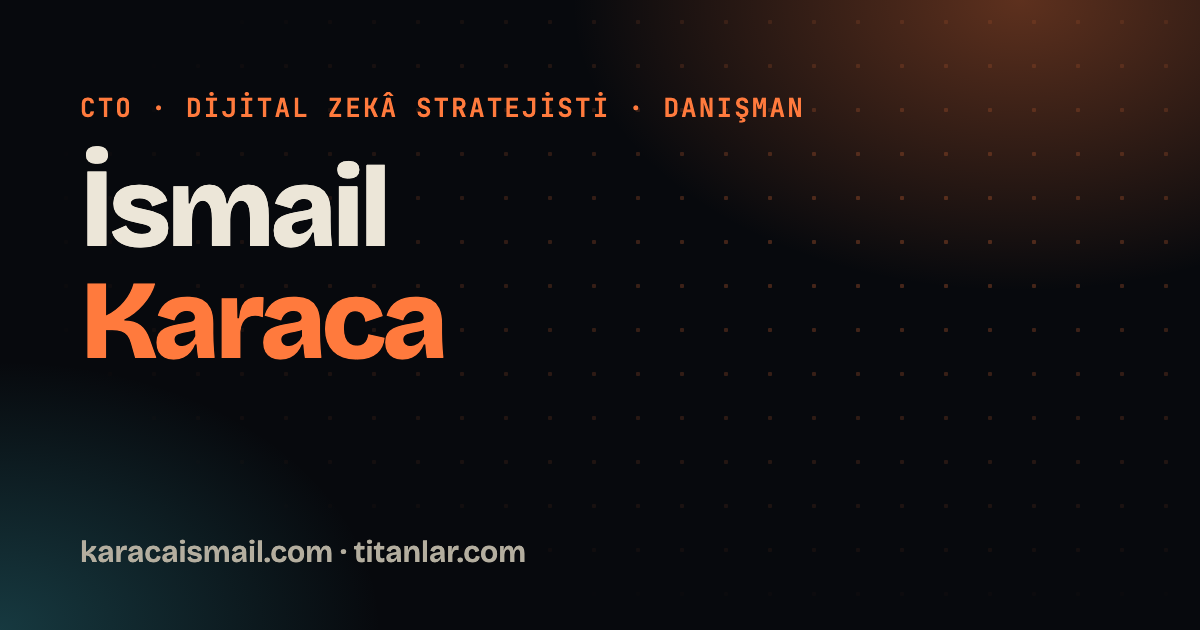
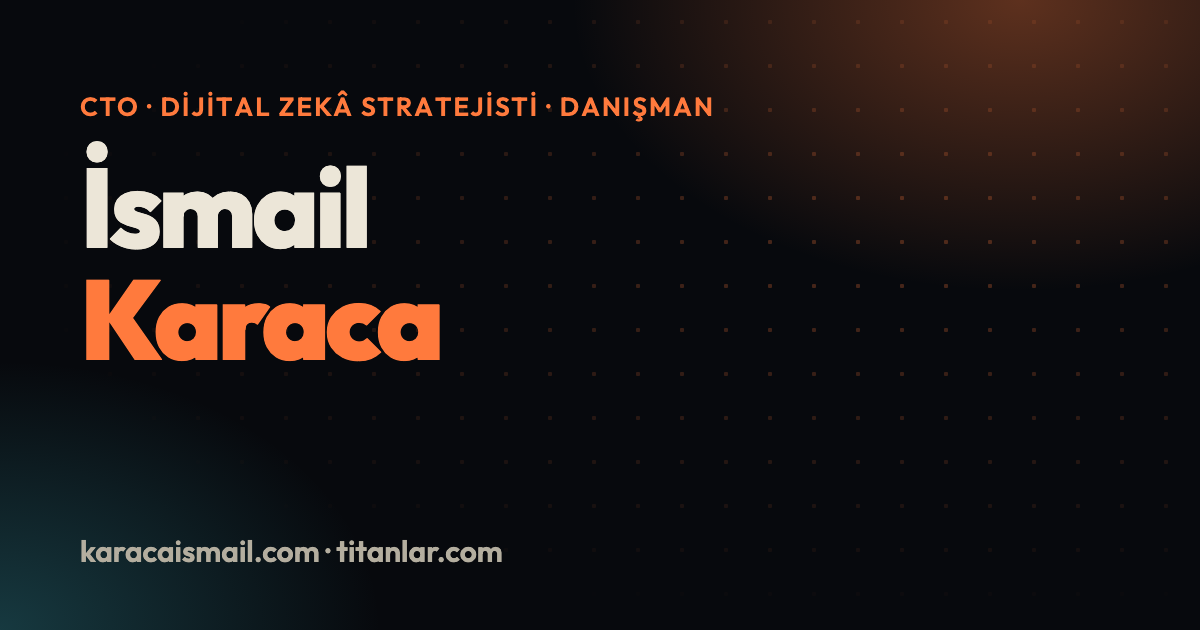
Make Outfit the default project font; document rule in AGENTS.md and CLAUDE.md

diff --git a/src/main.tsx b/src/main.tsx
@@ -1,6 +1,4 @@
-import '@fontsource-variable/bricolage-grotesque'
-import '@fontsource-variable/hanken-grotesk'
-import '@fontsource-variable/jetbrains-mono'
+import '@fontsource-variable/outfit'
 import '@mantine/core/styles.css'
 import { createTheme, MantineProvider } from '@mantine/core'
 import { StrictMode } from 'react'
@@ -13,8 +11,8 @@ const theme = createTheme({
     ember: ['#fff1e8', '#ffd9c3', '#ffbd96', '#ff9d68', '#ff8a4f', '#ff7a3d', '#e86a30', '#d9501a', '#b03f12', '#8a300c'],
   },
   primaryShade: 5,
-  fontFamily: "'Hanken Grotesk Variable', system-ui, sans-serif",
-  headings: { fontFamily: "'Bricolage Grotesque Variable', system-ui, sans-serif" },
+  fontFamily: "'Outfit Variable', system-ui, sans-serif",
+  headings: { fontFamily: "'Outfit Variable', system-ui, sans-serif" },
   fontSizes: { xs: '1rem', sm: '1rem', md: '1rem', lg: '1.125rem', xl: '1.25rem' },
   defaultRadius: 'md',
   focusRing: 'auto',

diff --git a/src/styles/tokens.css b/src/styles/tokens.css
@@ -15,9 +15,10 @@
   --c-focus: #ffb27f;
 
   /* tipografi: tüm adımlar en az 1rem */
-  --font-display: 'Bricolage Grotesque Variable', 'Hanken Grotesk Variable', system-ui, sans-serif;
-  --font-body: 'Hanken Grotesk Variable', system-ui, sans-serif;
-  --font-mono: 'JetBrains Mono Variable', ui-monospace, monospace;
+  /* Varsayılan yazı tipi: Outfit. Aksi açıkça belirtilmedikçe her yığında ilk sırada (bkz. AGENTS.md) */
+  --font-display: 'Outfit Variable', system-ui, sans-serif;
+  --font-body: 'Outfit Variable', system-ui, sans-serif;
+  --font-mono: 'Outfit Variable', system-ui, sans-serif;
   --fs-0: 1rem;
   --fs-1: clamp(1.0625rem, 1rem + 0.3vw, 1.25rem);
   --fs-2: clamp(1.25rem, 1.05rem + 0.9vw, 1.75rem);

diff --git a/src/styles/global.css b/src/styles/global.css
@@ -31,7 +31,7 @@ a { color: inherit; }
 .wrap { width: 100%; max-width: var(--maxw); margin-inline: auto; padding-inline: var(--gutter); }
 .section { position: relative; padding-block: var(--space-5); }
 .eyebrow {
-  font-family: var(--font-mono);
+  font-family: var(--font-mono); font-variant-numeric: tabular-nums;
   font-size: var(--fs-0);
   letter-spacing: 0.08em;
   text-transform: uppercase;

diff --git a/src/sections/ParticleScene.tsx b/src/sections/ParticleScene.tsx
@@ -149,7 +149,7 @@ export function ParticleScene() {
     const onLeave = () => { ptr.x = ptr.y = -9999 }
     cv.addEventListener('pointerleave', onLeave)
 
-    document.fonts.ready.then(() => {
+    document.fonts.load("800 100px 'Outfit Variable'").then(() => document.fonts.ready).then(() => {
       if (dead) return
       build()
       raf = requestAnimationFrame(draw)

diff --git a/AGENTS.md b/AGENTS.md
@@ -1,0 +1,18 @@
+# karacaismail.com proje yönergeleri
+
+Genel kişisel kurallar (Git yazarlığı, açık kaynak, Colima, arayüz ve QA) `~/.claude/CLAUDE.md` ve `~/AGENTS.md` içindedir. Bu dosya yalnızca bu projeye özgü kalıcı kararları tutar.
+
+## Varsayılan yazı tipi: Outfit (kalıcı, değişmez kural)
+
+- Bu projenin varsayılan ve ilk sıradaki yazı tipi **Outfit**'tir (Google Fonts, değişken eksen, `@fontsource-variable/outfit` ile projeye gömülür, uzak yazı tipi servisi kullanılmaz).
+- Kullanıcı açıkça başka bir yazı tipi belirtmedikçe her yeni sayfa, bileşen, tuval çizimi, OG görseli ve belge Outfit kullanır. Başlık, gövde, etiket ve kod dahil hiçbir yerde Outfit'in önüne başka yazı tipi konmaz.
+- Merkez: `src/styles/tokens.css` içindeki `--font-display`, `--font-body`, `--font-mono` ve `src/main.tsx` içindeki Mantine teması. Bileşenlerde sabit yazı tipi adı yazma; tokenları kullan.
+- Metin boyutu en az 1rem kuralı Outfit için de geçerlidir.
+- Bu kural yalnızca kullanıcının açık talimatıyla değişir. Bir kütüphane, şablon veya öneri bunu değiştiremez.
+
+## Proje bilgisi
+
+- Yığın: Vite, React 19, TypeScript, Mantine 9, GSAP ScrollTrigger, anime.js 4, Lenis. İçerik tek dosyada: `src/data/site.ts`; yalnızca doğrulanabilir bilgi girilir.
+- Yayın: GitHub Pages (Actions), özel alan adı `karacaismail.com`, DNS Cloudflare'de ve DNS only (gri bulut). GitHub Pages A kayıtları yalnızca `185.199.108.153`, `185.199.109.153`, `185.199.110.153`, `185.199.111.153`.
+- Doğrulama: `npx tsc -b` ve `npx playwright test` (Chromium, Firefox, WebKit). Testler `deploy.yml` içinde dağıtımdan önce zorunlu çalışır.
+- Lisans henüz seçilmedi; sahibi onaylamadan LICENSE ekleme.

diff --git a/CLAUDE.md b/CLAUDE.md
@@ -1,0 +1,18 @@
+# karacaismail.com proje yönergeleri
+
+Genel kişisel kurallar (Git yazarlığı, açık kaynak, Colima, arayüz ve QA) `~/.claude/CLAUDE.md` ve `~/AGENTS.md` içindedir. Bu dosya yalnızca bu projeye özgü kalıcı kararları tutar.
+
+## Varsayılan yazı tipi: Outfit (kalıcı, değişmez kural)
+
+- Bu projenin varsayılan ve ilk sıradaki yazı tipi **Outfit**'tir (Google Fonts, değişken eksen, `@fontsource-variable/outfit` ile projeye gömülür, uzak yazı tipi servisi kullanılmaz).
+- Kullanıcı açıkça başka bir yazı tipi belirtmedikçe her yeni sayfa, bileşen, tuval çizimi, OG görseli ve belge Outfit kullanır. Başlık, gövde, etiket ve kod dahil hiçbir yerde Outfit'in önüne başka yazı tipi konmaz.
+- Merkez: `src/styles/tokens.css` içindeki `--font-display`, `--font-body`, `--font-mono` ve `src/main.tsx` içindeki Mantine teması. Bileşenlerde sabit yazı tipi adı yazma; tokenları kullan.
+- Metin boyutu en az 1rem kuralı Outfit için de geçerlidir.
+- Bu kural yalnızca kullanıcının açık talimatıyla değişir. Bir kütüphane, şablon veya öneri bunu değiştiremez.
+
+## Proje bilgisi
+
+- Yığın: Vite, React 19, TypeScript, Mantine 9, GSAP ScrollTrigger, anime.js 4, Lenis. İçerik tek dosyada: `src/data/site.ts`; yalnızca doğrulanabilir bilgi girilir.
+- Yayın: GitHub Pages (Actions), özel alan adı `karacaismail.com`, DNS Cloudflare'de ve DNS only (gri bulut). GitHub Pages A kayıtları yalnızca `185.199.108.153`, `185.199.109.153`, `185.199.110.153`, `185.199.111.153`.
+- Doğrulama: `npx tsc -b` ve `npx playwright test` (Chromium, Firefox, WebKit). Testler `deploy.yml` içinde dağıtımdan önce zorunlu çalışır.
+- Lisans henüz seçilmedi; sahibi onaylamadan LICENSE ekleme.
